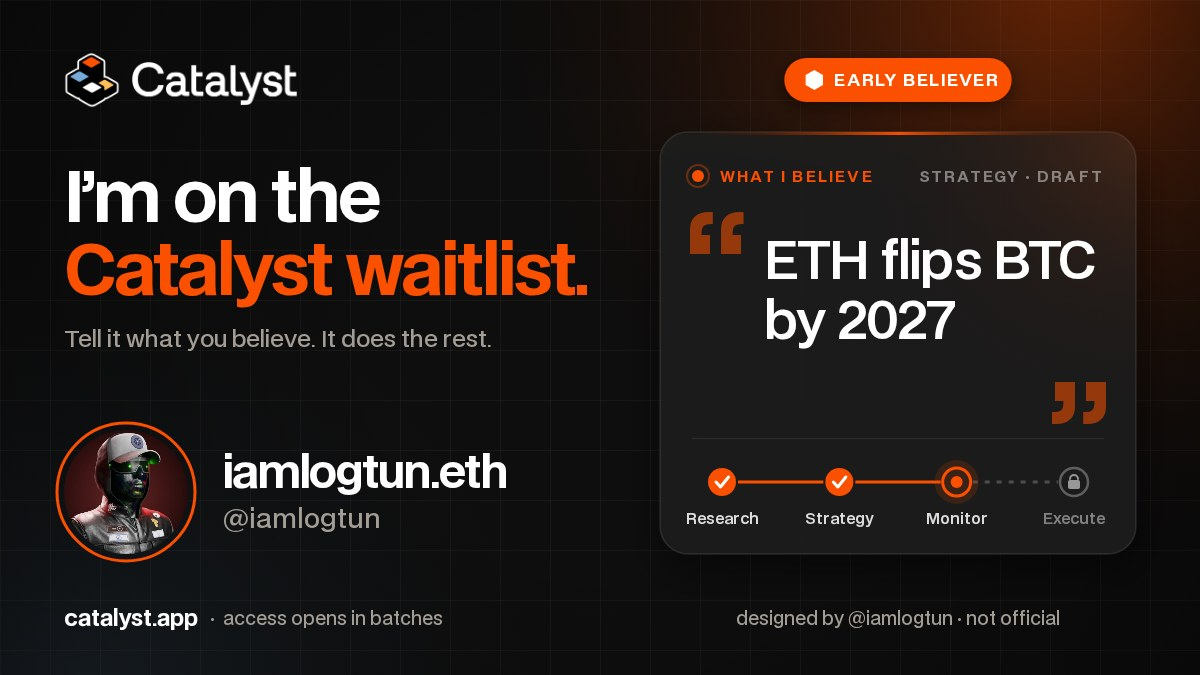
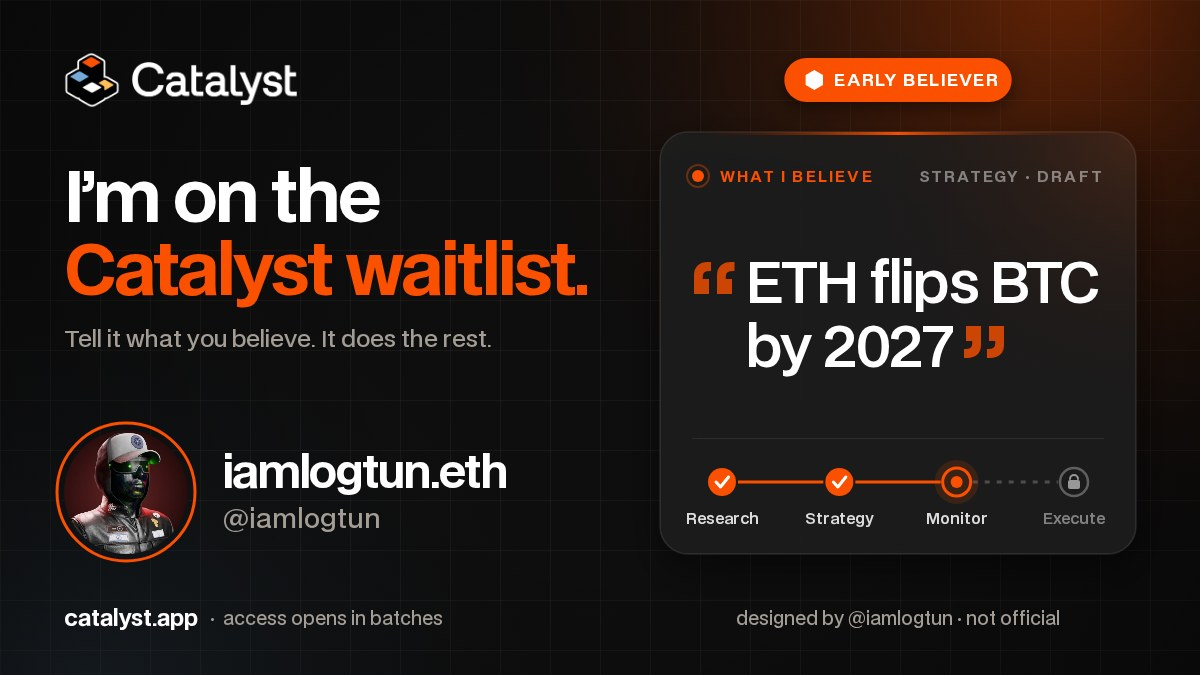
Card: quote marks hug the typed belief (opening before the first line, closing after the last)

Changed region(s): [[0.555, 0.3111, 0.925, 0.56], [0.8633, 0.56, 0.925, 0.6222]]

diff --git a/app.js b/app.js
@@ -242,36 +242,78 @@ function draw() {
   ctx.fillText("STRATEGY · DRAFT", cx + cw - 32, cy + 45);
   setLS(0);
 
-  // quote marks: opening “ top-left, closing ” bottom-right (mirrored), in the accent colour;
-  // the belief sits in the space between them so neither mark ever touches the text
+  // quote marks hug the typed belief: opening “ just before the first line's start (top-aligned
+  // with its capitals), closing ” just after the last line's end; both sized from the belief font
+  // and measured from the rendered text, so they never touch the text or leave the box
   ctx.textAlign = "left"; ctx.textBaseline = "alphabetic";
-  ctx.font = F(700, 140); ctx.fillStyle = hexA(cardAccent, 0.55);
-  const mo = ctx.measureText("“"), mc = ctx.measureText("”");
-  const oL = cx + 30, oT = cy + 80, oW = mo.actualBoundingBoxLeft + mo.actualBoundingBoxRight;
-  const cR = cx + cw - 30, cB = cy + 292, cH = mc.actualBoundingBoxAscent + mc.actualBoundingBoxDescent;
-  ctx.fillText("“", oL + mo.actualBoundingBoxLeft, oT + mo.actualBoundingBoxAscent);
-  ctx.fillText("”", cR - mc.actualBoundingBoxRight, cB - mc.actualBoundingBoxDescent);
   const bt = belief || "Tell it what you believe.";
-  const qx = oL + oW + 20, qw = cx + cw - 36 - qx, qTop = cy + 84, qBot = cB - cH - 10;
-  let bs = 52, lines;
-  setLS(-0.8);
-  for (; bs > 22; bs -= 2) {
-    ctx.font = F(600, bs); lines = wrap(bt, qw);
-    if (lines.length * bs * 1.14 <= qBot - qTop && lines.every((l) => ctx.measureText(l).width <= qw)) break;
+  const padL = cx + 34, padR = cx + cw - 34, qTop = cy + 84, qBot = cy + 290;
+  let bs = 56, lines, mo, mc, ms, qg, qx, qw;
+  const markMetrics = (size) => {
+    setLS(0); ctx.font = F(700, Math.round(size * 1.9));
+    mo = ctx.measureText("“"); mc = ctx.measureText("”"); ms = Math.round(size * 1.9);
+    qg = Math.max(7, Math.round(size * 0.2));
+    qx = padL + mo.actualBoundingBoxLeft + mo.actualBoundingBoxRight + qg; qw = padR - qx;
+  };
+  const cWid = () => mc.actualBoundingBoxLeft + mc.actualBoundingBoxRight;
+  // wrap, then make room for the closing mark on the last line (push its last word down if needed)
+  const wrapQ = (t) => {
+    const L = wrap(t, qw);
+    const room = qw - qg - cWid();
+    const last = L[L.length - 1];
+    if (ctx.measureText(last).width > room) {
+      const ws = last.split(" ");
+      if (ws.length > 1) { const tail = ws.pop(); L[L.length - 1] = ws.join(" "); L.push(tail); }
+    }
+    return L;
+  };
+  const fits = (L) => L.length * bs * 1.14 <= qBot - qTop && L.every((l) => ctx.measureText(l).width <= qw) &&
+    ctx.measureText(L[L.length - 1]).width <= qw - qg - cWid();
+  // first choice: the largest size where the plain wrap already leaves room for the closing mark;
+  // only if none does, allow pushing the last word down a line
+  let push = false, found = false;
+  for (const allowPush of [false, true]) {
+    for (bs = 56; bs >= 22; bs -= 2) {
+      markMetrics(bs); setLS(-0.8); ctx.font = F(600, bs);
+      lines = allowPush ? wrapQ(bt) : wrap(bt, qw);
+      if (fits(lines)) { found = true; break; }
+    }
+    if (found) { push = allowPush; break; }
   }
-  ctx.font = F(600, bs); lines = wrap(bt, qw);
+  if (!found) bs = 22;
+  markMetrics(bs); setLS(-0.8); ctx.font = F(600, bs); lines = push || !found ? wrapQ(bt) : wrap(bt, qw);
+  // balance the lines (no one-word orphan on the last line): narrowest wrap width that keeps the
+  // same number of lines and still leaves room for the closing mark
+  if (found && !push && lines.length > 1) {
+    const n = lines.length, room = () => qw - qg - cWid();
+    let lo = qw * 0.4, hi = qw;
+    for (let k = 0; k < 14; k++) {
+      const mid = (lo + hi) / 2, L = wrap(bt, mid);
+      if (L.length === n && ctx.measureText(L[n - 1]).width <= room()) hi = mid; else lo = mid;
+    }
+    const L = wrap(bt, hi);
+    if (L.length === n && L.every((l) => ctx.measureText(l).width <= qw)) lines = L;
+  }
   const lh = bs * 1.14, maxLines = Math.floor((qBot - qTop) / lh);
   if (lines.length > maxLines) {
     lines = lines.slice(0, maxLines);
     let last = lines[maxLines - 1];
-    while (last.length > 1 && ctx.measureText(last + "…").width > qw) last = last.slice(0, -1);
+    while (last.length > 1 && ctx.measureText(last + "…").width > qw - qg - cWid()) last = last.slice(0, -1);
     lines[maxLines - 1] = last.replace(/[\s,.;:]+$/, "") + "…";
   }
   const blockH = lines.length * lh;
   const y0 = qTop + (qBot - qTop - blockH) / 2 + bs * 0.86;
+  const capH = ctx.measureText("H").actualBoundingBoxAscent;
+  const lastW = ctx.measureText(lines[lines.length - 1]).width;
   ctx.fillStyle = belief ? "#ffffff" : "rgba(255,255,255,0.55)";
   lines.forEach((l, i) => ctx.fillText(l, qx, y0 + i * lh));
-  setLS(0);
+  // the marks (no letter-spacing), top of each glyph level with the cap height of its line
+  setLS(0); ctx.font = F(700, ms); ctx.fillStyle = hexA(cardAccent, belief ? 0.8 : 0.5);
+  const firstTop = y0 - capH, lastTop = y0 + (lines.length - 1) * lh - capH;
+  ctx.fillText("“", qx - qg - mo.actualBoundingBoxRight, firstTop + mo.actualBoundingBoxAscent);
+  let cL = qx + lastW + qg;
+  ctx.fillText("”", cL + mc.actualBoundingBoxLeft, lastTop + mc.actualBoundingBoxAscent);
+  ctx.textAlign = "left";
 
   // divider
   const dy = cy + 306;

diff --git a/index.html b/index.html
@@ -10,21 +10,21 @@
 <meta property="og:url" content="https://catalyst-waitlist-card.vercel.app/">
 <meta property="og:title" content="I’m on the Catalyst waitlist. Make your hype card">
 <meta property="og:description" content="Your name, your belief, your card. Generate a shareable Catalyst waitlist card for X in seconds.">
-<meta property="og:image" content="https://catalyst-waitlist-card.vercel.app/og.jpg?v=13">
+<meta property="og:image" content="https://catalyst-waitlist-card.vercel.app/og.jpg?v=14">
 <meta property="og:image:width" content="1200">
 <meta property="og:image:height" content="675">
 <meta property="og:image:alt" content="A sample Catalyst waitlist hype card">
 <meta name="twitter:card" content="summary_large_image">
 <meta name="twitter:title" content="I’m on the Catalyst waitlist. Make your hype card">
 <meta name="twitter:description" content="Your name, your belief, your card. Generate a shareable Catalyst waitlist card for X in seconds.">
-<meta name="twitter:image" content="https://catalyst-waitlist-card.vercel.app/og.jpg?v=13">
+<meta name="twitter:image" content="https://catalyst-waitlist-card.vercel.app/og.jpg?v=14">
 <link rel="icon" href="favicon.svg" type="image/svg+xml">
 <link rel="icon" href="favicon-96.png" sizes="96x96" type="image/png">
 <link rel="apple-touch-icon" href="apple-touch-icon.png">
 <link rel="preconnect" href="https://api.fxtwitter.com" crossorigin>
 <link rel="preconnect" href="https://pbs.twimg.com" crossorigin>
 <link rel="preload" href="assets/bdo-grotesk.woff2" as="font" type="font/woff2" crossorigin>
-<link rel="stylesheet" href="styles.css?v=24">
+<link rel="stylesheet" href="styles.css?v=25">
 </head>
 <body>
 <div class="bg-grid" aria-hidden="true"></div>
@@ -159,7 +159,7 @@
 <div class="toast" id="toast" role="status" aria-live="polite"></div>
 
 <script src="wall.js?v=1" defer></script>
-<script src="app.js?v=24" defer></script>
+<script src="app.js?v=25" defer></script>
 <script src="gate.js?v=1" defer></script>
 </body>
 </html>
